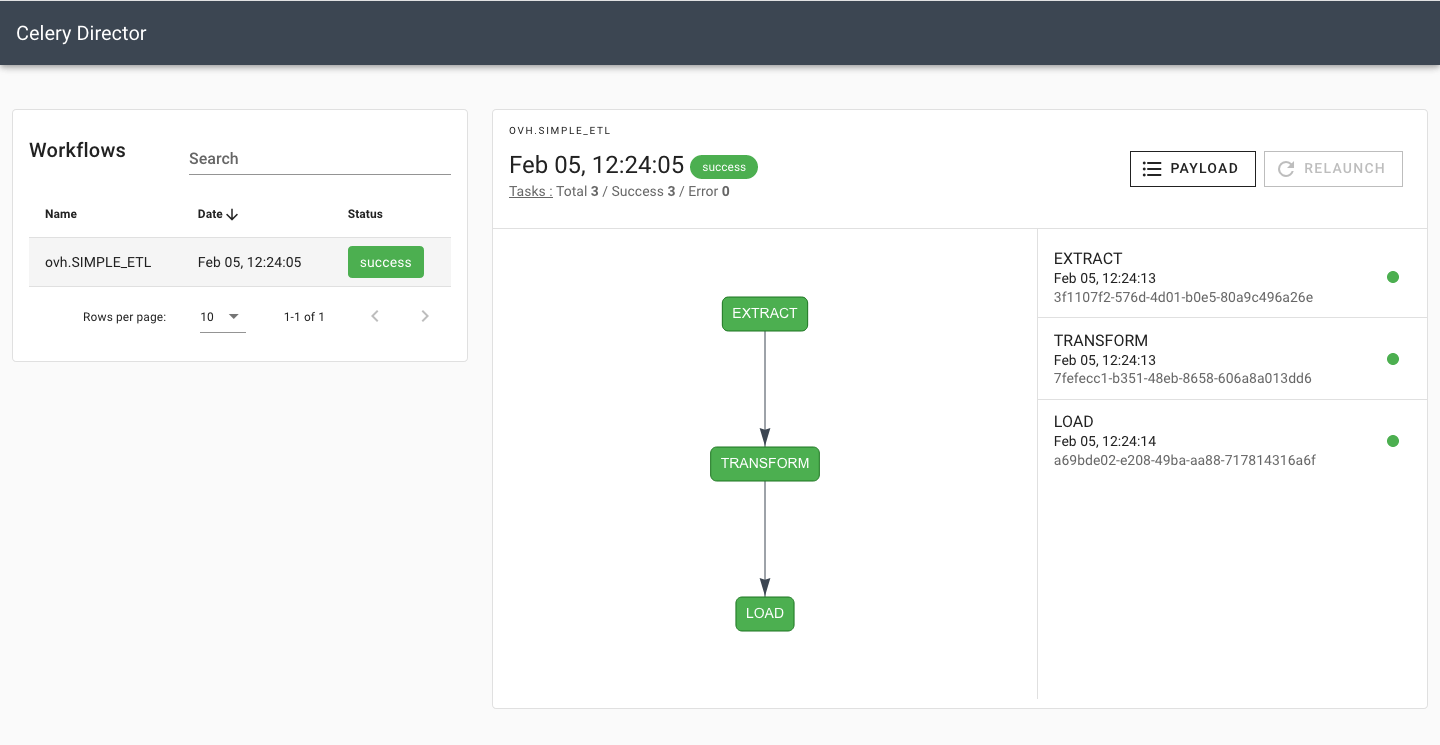
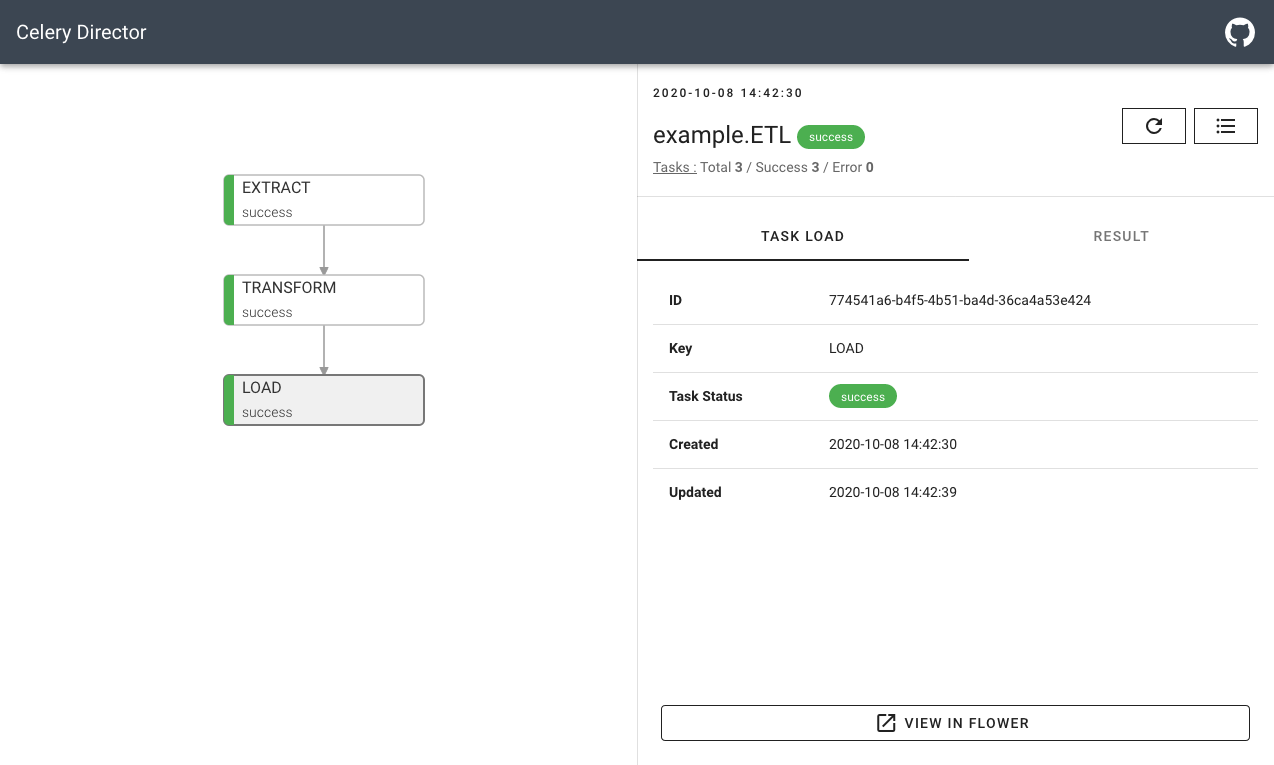
chore: rename default workflow to example.ETL

diff --git a/director/commands/init.py b/director/commands/init.py
@@ -41,7 +41,7 @@ WORKFLOWS_YML_TEMPLATE = """---
 # |  EXTRACT  +----->+  TRANSFORM  +----->+  LOAD  |
 # +-----------+      +-------------+      +--------+
 #
-ovh.SIMPLE_ETL:
+example.ETL:
   tasks:
     - EXTRACT
     - TRANSFORM

diff --git a/docs/docs/api.md b/docs/docs/api.md
@@ -25,12 +25,12 @@ HTTP/1.1 200 OK
 [
     {
         "created": "2020-02-06T13:56:51",
-        "fullname": "ovh.SIMPLE_ETL",
+        "fullname": "example.ETL",
         "id": "29e7ef80-fa1b-4b91-8ccb-ef01a91601db",
-        "name": "SIMPLE_ETL",
+        "name": "ETL",
         "payload": {"foo": "bar"},
         "periodic": false,
-        "project": "ovh",
+        "project": "example",
         "status": "pending",
         "updated": "2020-02-06T13:56:51"
     }
@@ -56,12 +56,12 @@ HTTP/1.1 200 OK
 
 {
     "created": "2020-02-06T13:56:51",
-    "fullname": "ovh.SIMPLE_ETL",
+    "fullname": "example.ETL",
     "id": "29e7ef80-fa1b-4b91-8ccb-ef01a91601db",
-    "name": "SIMPLE_ETL",
+    "name": "ETL",
     "payload": {},
     "periodic": false,
-    "project": "ovh",
+    "project": "example",
     "status": "pending",
     "tasks": [
         {
@@ -113,8 +113,8 @@ Host: example.com
 Accept: application/json
 
 {
-  "project": "ovh",
-  "name": "SIMPLE_ETL",
+  "project": "example",
+  "name": "ETL",
   "paylod": {}
 }
 ```
@@ -126,12 +126,12 @@ HTTP/1.1 201 CREATED
 
 {
     "created": "2020-02-06T14:01:02",
-    "fullname": "ovh.SIMPLE_ETL",
+    "fullname": "example.ETL",
     "id": "43e70707-b661-42e1-a7df-5b98851ae340",
-    "name": "SIMPLE_ETL",
+    "name": "ETL",
     "payload": {},
     "periodic": false,
-    "project": "ovh",
+    "project": "example",
     "status": "pending",
     "updated": "2020-02-06T14:01:02"
 }

diff --git a/docs/docs/quickstart.md b/docs/docs/quickstart.md
@@ -48,7 +48,7 @@ def extract(*args, **kwargs):
 While the `workflows.yml` file will be used to combine them into workflows :
 
 ```yaml
-ovh.SIMPLE_ETL:
+example.ETL:
   tasks:
     - EXTRACT
     - TRANSFORM
@@ -77,19 +77,24 @@ The `workflow` command can be used to manage your workflows.
 
 ```
 $ director workflow list
-+----------------+----------+-----------+
-| Workflows (1)  | Periodic | Tasks     |
-+----------------+----------+-----------+
-| ovh.SIMPLE_ETL |    --    | EXTRACT   |
-|                |          | TRANSFORM |
-|                |          | LOAD      |
-+----------------+----------+-----------+
++-----------------+----------+----------------------+
+| Workflows (2)   | Periodic | Tasks                |
++-----------------+----------+----------------------+
+| example.ETL     |    --    | EXTRACT              |
+|                 |          | TRANSFORM            |
+|                 |          | LOAD                 |
++-----------------+----------+----------------------+
+| example.RANDOMS |    --    | Group GROUP_RANDOMS: |
+|                 |          |  └ RANDOM            |
+|                 |          |  └ RANDOM            |
+|                 |          | ADD                  |
++-----------------+----------+----------------------+
 ```
 
 **Run**
 
 ```
-$ director workflow run ovh.SIMPLE_ETL
+$ director workflow run example.ETL
 ```
 
 ## Execute the tasks

diff --git a/docs/docs/guides/build-workflows.md b/docs/docs/guides/build-workflows.md
@@ -112,7 +112,7 @@ $ director celery beat
 With director, you can set queues for workflows. All workflow's tasks will use the same queue:
 
 ```yaml
-example.SIMPLE_ETL:
+example.ETL:
   tasks:
     - A
     - B
